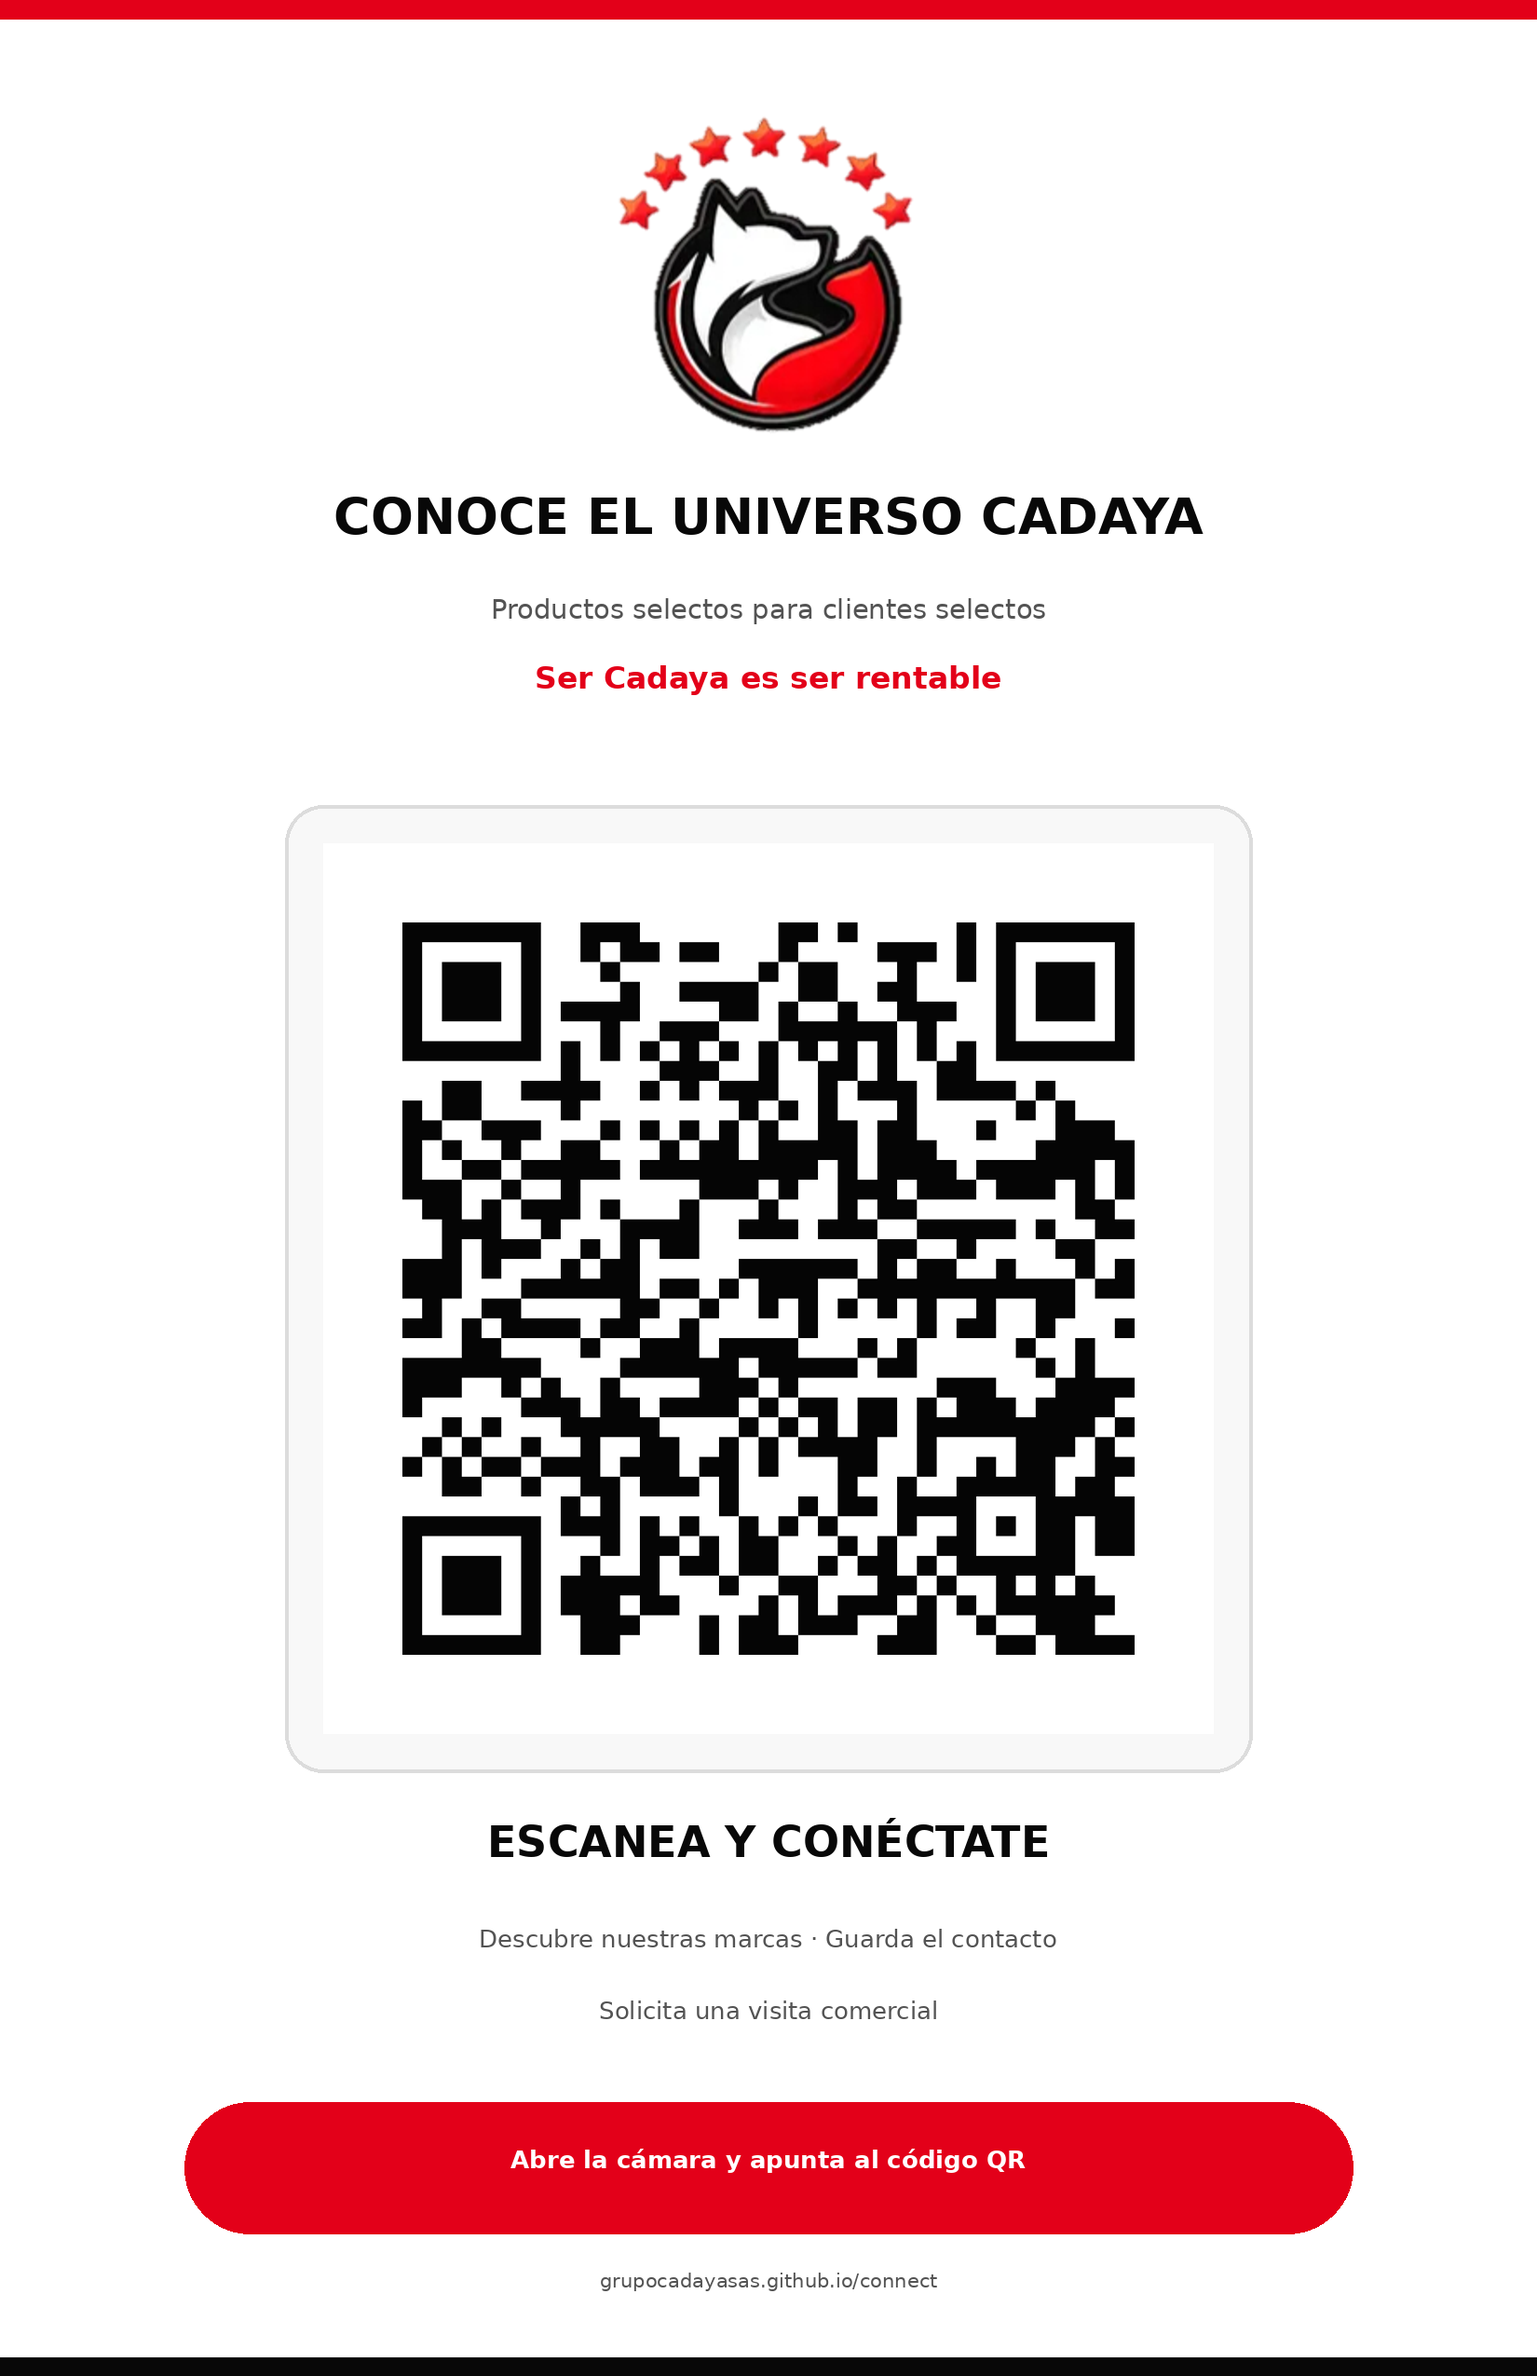
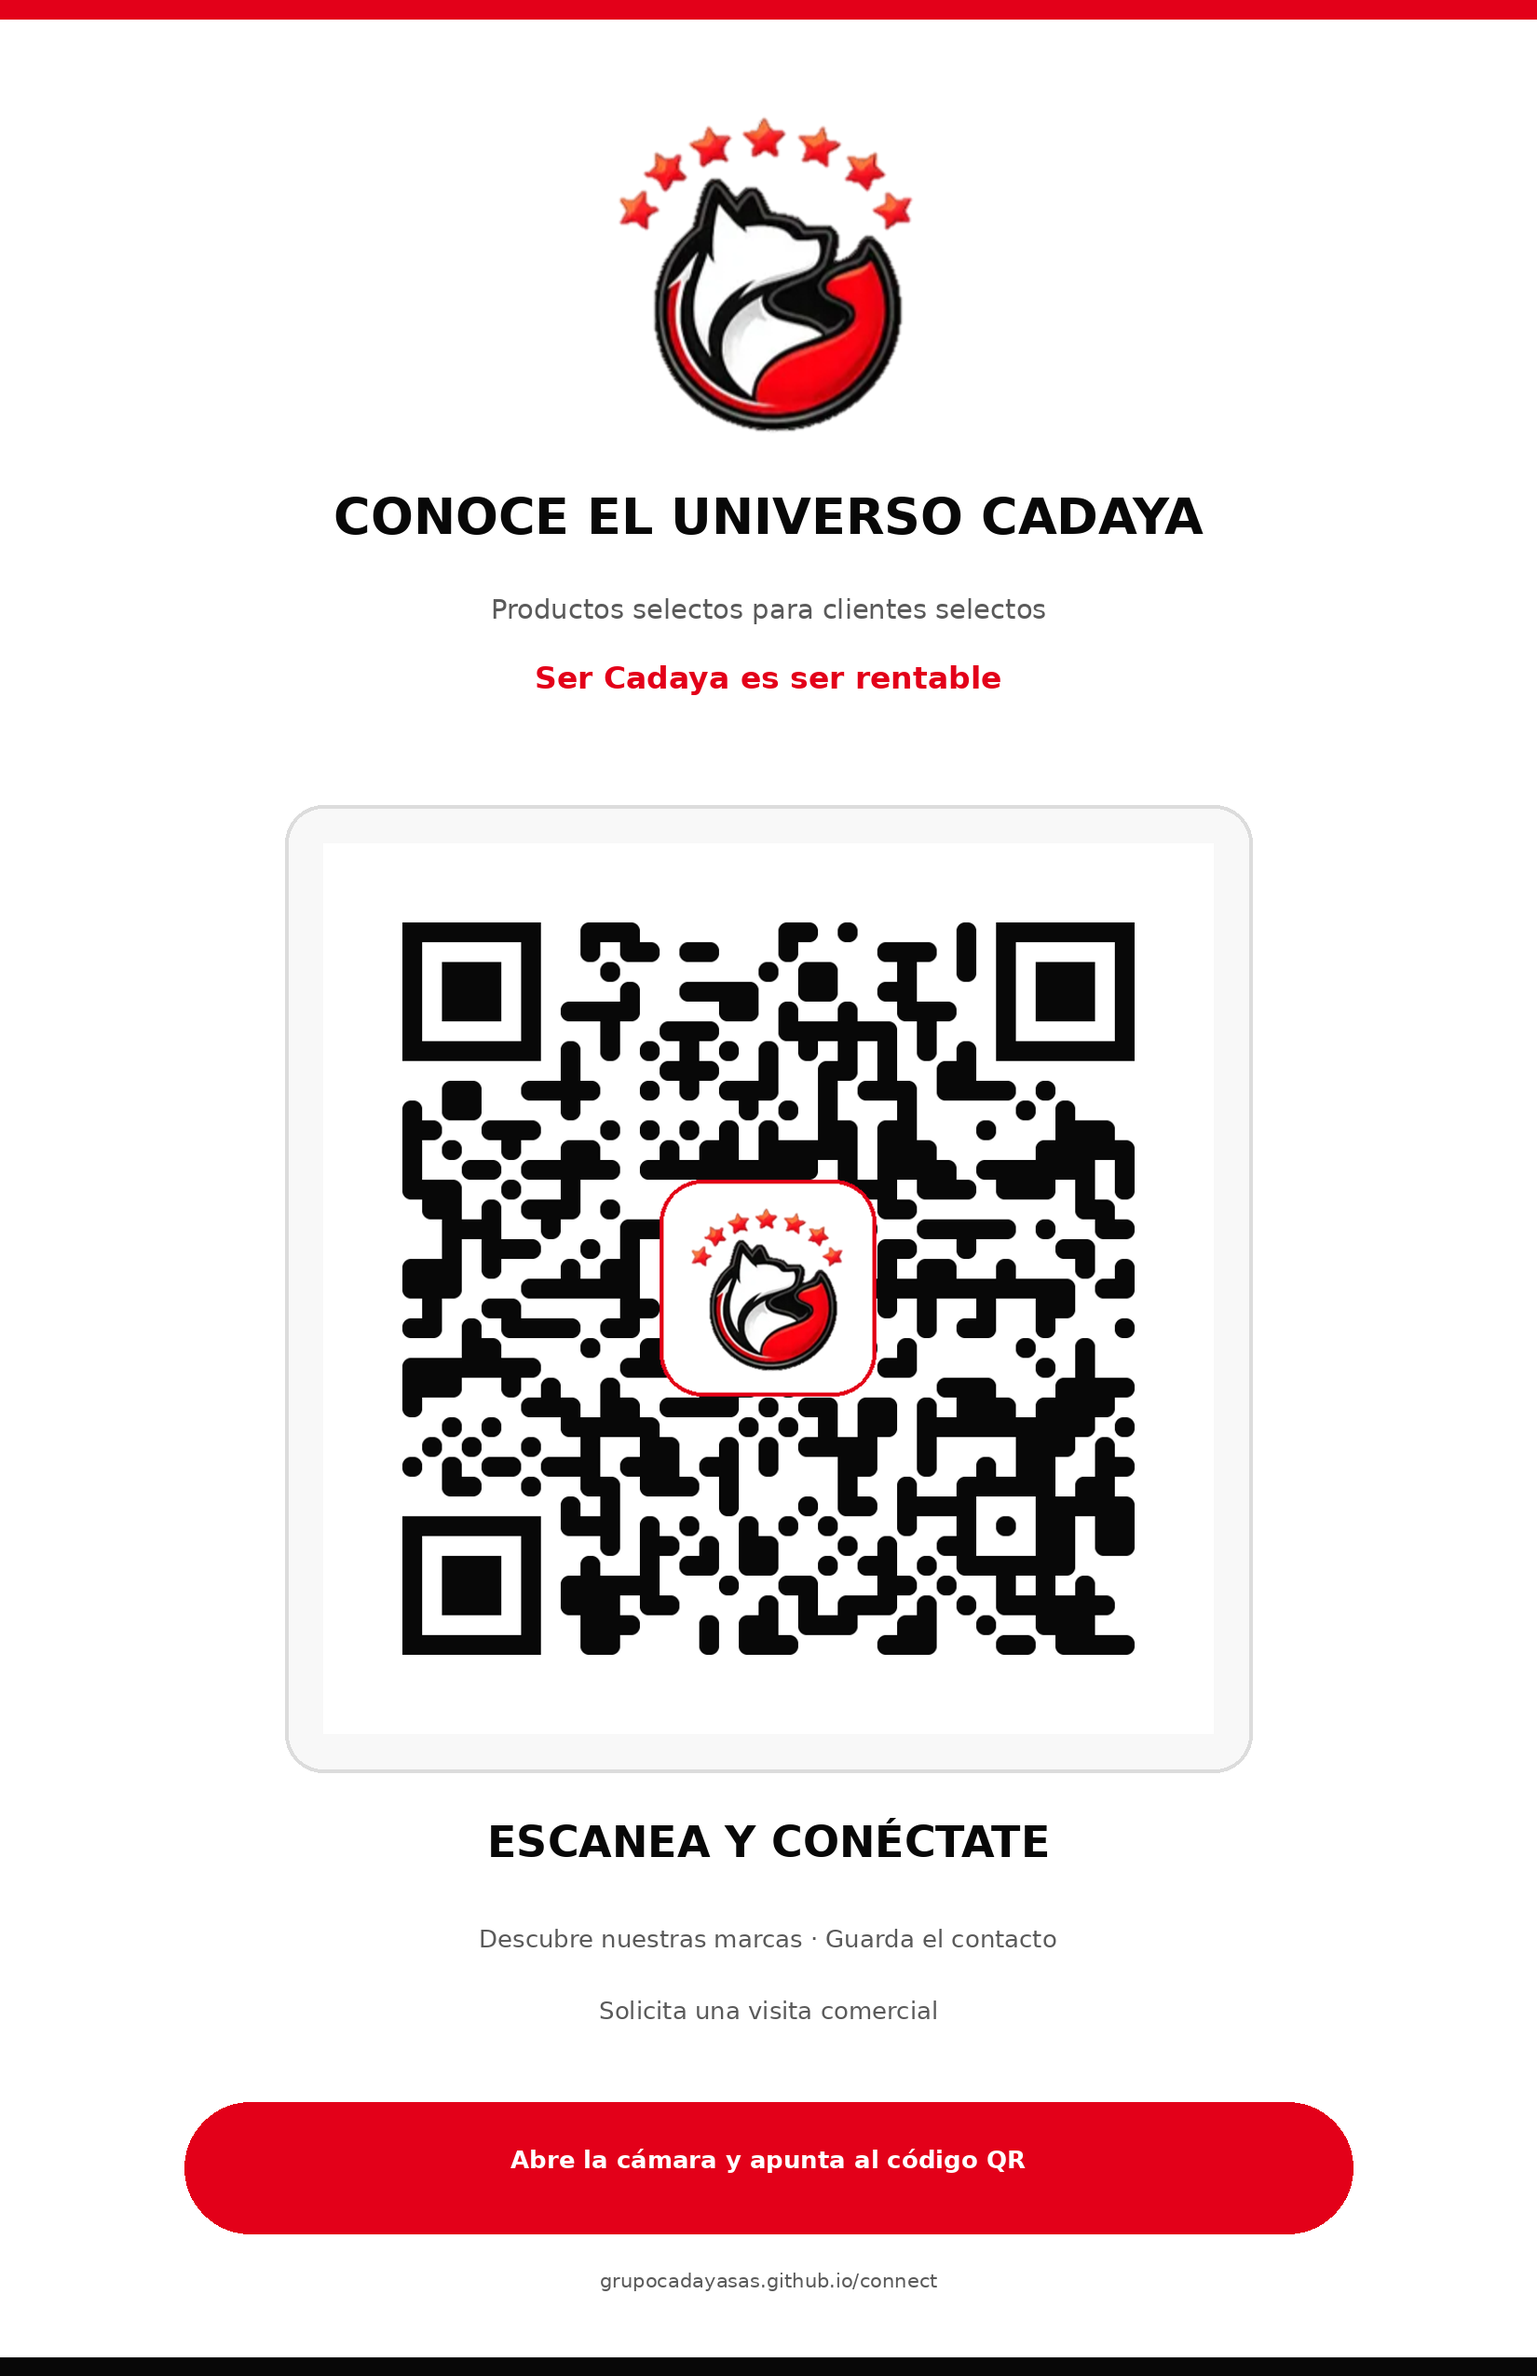
ok

Changed region(s): [[0.4018, 0.4957, 0.5873, 0.5886]]

diff --git a/index.html b/index.html
@@ -26,7 +26,7 @@
   <link rel="preconnect" href="https://fonts.googleapis.com">
   <link rel="preconnect" href="https://fonts.gstatic.com" crossorigin>
   <link href="https://fonts.googleapis.com/css2?family=Montserrat:wght@400;500;600;700;800;900&family=Playfair+Display:ital,wght@1,600&display=swap" rel="stylesheet">
-  <link rel="stylesheet" href="styles-cadaya-v3.css?v=20260710-10" />
+  <link rel="stylesheet" href="styles-cadaya-v3.css?v=20260710-12" />
 </head>
 <body>
   <div class="intro-screen" id="introScreen" aria-hidden="true">
@@ -98,21 +98,6 @@
             </div>
           </figure>
         </div>
-      </div>
-
-      <div class="values shell reveal">
-        <article>
-          <div class="value-icon">✓</div>
-          <div><strong>Excelencia operativa</strong><span>Procesos eficientes que garantizan calidad y cumplimiento.</span></div>
-        </article>
-        <article>
-          <div class="value-icon">🤝</div>
-          <div><strong>Relaciones sólidas</strong><span>Alianzas estratégicas para crecer juntos.</span></div>
-        </article>
-        <article>
-          <div class="value-icon">↗</div>
-          <div><strong>Crecimiento rentable</strong><span>Soluciones que generan rentabilidad y valor para tu negocio.</span></div>
-        </article>
       </div>
     </section>
 
@@ -324,7 +309,7 @@
 <button id="successClose">Continuar explorando</button></section></div><footer>
       <div class="shell footer-grid">
         <div class="qr-card">
-          <img src="assets/qr-cadaya-definitivo.png?v=20260710-10" alt="Código QR">
+          <img src="assets/qr-cadaya-premium-logo.png?v=20260710-11" alt="Código QR">
           <div><strong>Escanea y conéctate</strong><span>Lleva nuestra información en tu celular.</span></div>
         </div>
 
@@ -352,6 +337,6 @@
     </a>
   </nav>
 
-  <script src="app-cadaya-v3.js?v=20260710-10"></script>
+  <script src="app-cadaya-v3.js?v=20260710-12"></script>
 </body>
 </html>

diff --git a/sw.js b/sw.js
@@ -1,9 +1,9 @@
-const CACHE_NAME = "cadaya-connect-v10";
+const CACHE_NAME = "cadaya-connect-v12";
 const ASSETS = [
   "./",
   "./index.html",
-  "./styles-cadaya-v3.css?v=20260710-10",
-  "./app-cadaya-v3.js?v=20260710-10",
+  "./styles-cadaya-v3.css?v=20260710-12",
+  "./app-cadaya-v3.js?v=20260710-12",
   "./manifest.webmanifest",
   "./grupo-cadaya.vcf",
   "./assets/logo-cadaya.png",
@@ -13,7 +13,8 @@ const ASSETS = [
   "./assets/icon-192.png",
   "./assets/icon-512.png",
   "./assets/og-cadaya.jpg",
-  "./assets/qr-cadaya-definitivo.png"
+  "./assets/qr-cadaya-definitivo.png",
+  "./assets/qr-cadaya-premium-logo.png"
 ];
 
 self.addEventListener("install", event => {

diff --git a/styles-cadaya-v3.css b/styles-cadaya-v3.css
@@ -1684,3 +1684,21 @@ body {
     font-size: 10px;
   }
 }
+
+
+/* V12 — Eliminación del bloque duplicado bajo la imagen */
+.hero {
+  padding-bottom: 170px;
+}
+
+@media (max-width: 900px) {
+  .hero {
+    padding-bottom: 180px;
+  }
+}
+
+@media (max-width: 767px) {
+  .hero {
+    padding-bottom: 150px;
+  }
+}

diff --git a/README.md b/README.md
@@ -1,24 +1,15 @@
-# CADAYA CONNECT — SPRINTS V10
+# CADAYA CONNECT — V12
 
-## Landing
-- Lead Center por correo.
-- Respuesta automática al visitante.
-- Referencia CAD por solicitud.
-- Correo alternativo visible si falla el servicio.
-- QR interno actualizado a la URL definitiva.
-- PWA, Open Graph y caché V10.
+Cambio aplicado:
+- Se eliminó exclusivamente el bloque duplicado ubicado debajo de la imagen principal:
+  - Excelencia Operativa
+  - Relaciones Sólidas
+  - Crecimiento Rentable
 
-## Material para impresión
-- Acrilico_CADAYA_A5_300DPI.png
-- Acrilico_CADAYA_Media_Carta_300DPI.png
-- assets/qr-cadaya-definitivo.png
+Se conserva:
+- La imagen principal exactamente como estaba.
+- Los conceptos integrados dentro de la imagen.
+- El resto de la landing sin modificaciones.
+- Aplicación tanto para escritorio como para iPhone y Android.
 
-## Activación obligatoria del formulario
-1. Publica esta versión en GitHub Pages.
-2. Envía una solicitud de prueba.
-3. Revisa gerenciacomercial@grupocadayasas.com.
-4. Confirma el correo de activación enviado por FormSubmit.
-5. Envía una segunda prueba para verificar la recepción.
-
-URL definitiva:
-https://grupocadayasas.github.io/connect/
+También se actualizó la versión de caché para evitar que el navegador muestre la versión anterior.
